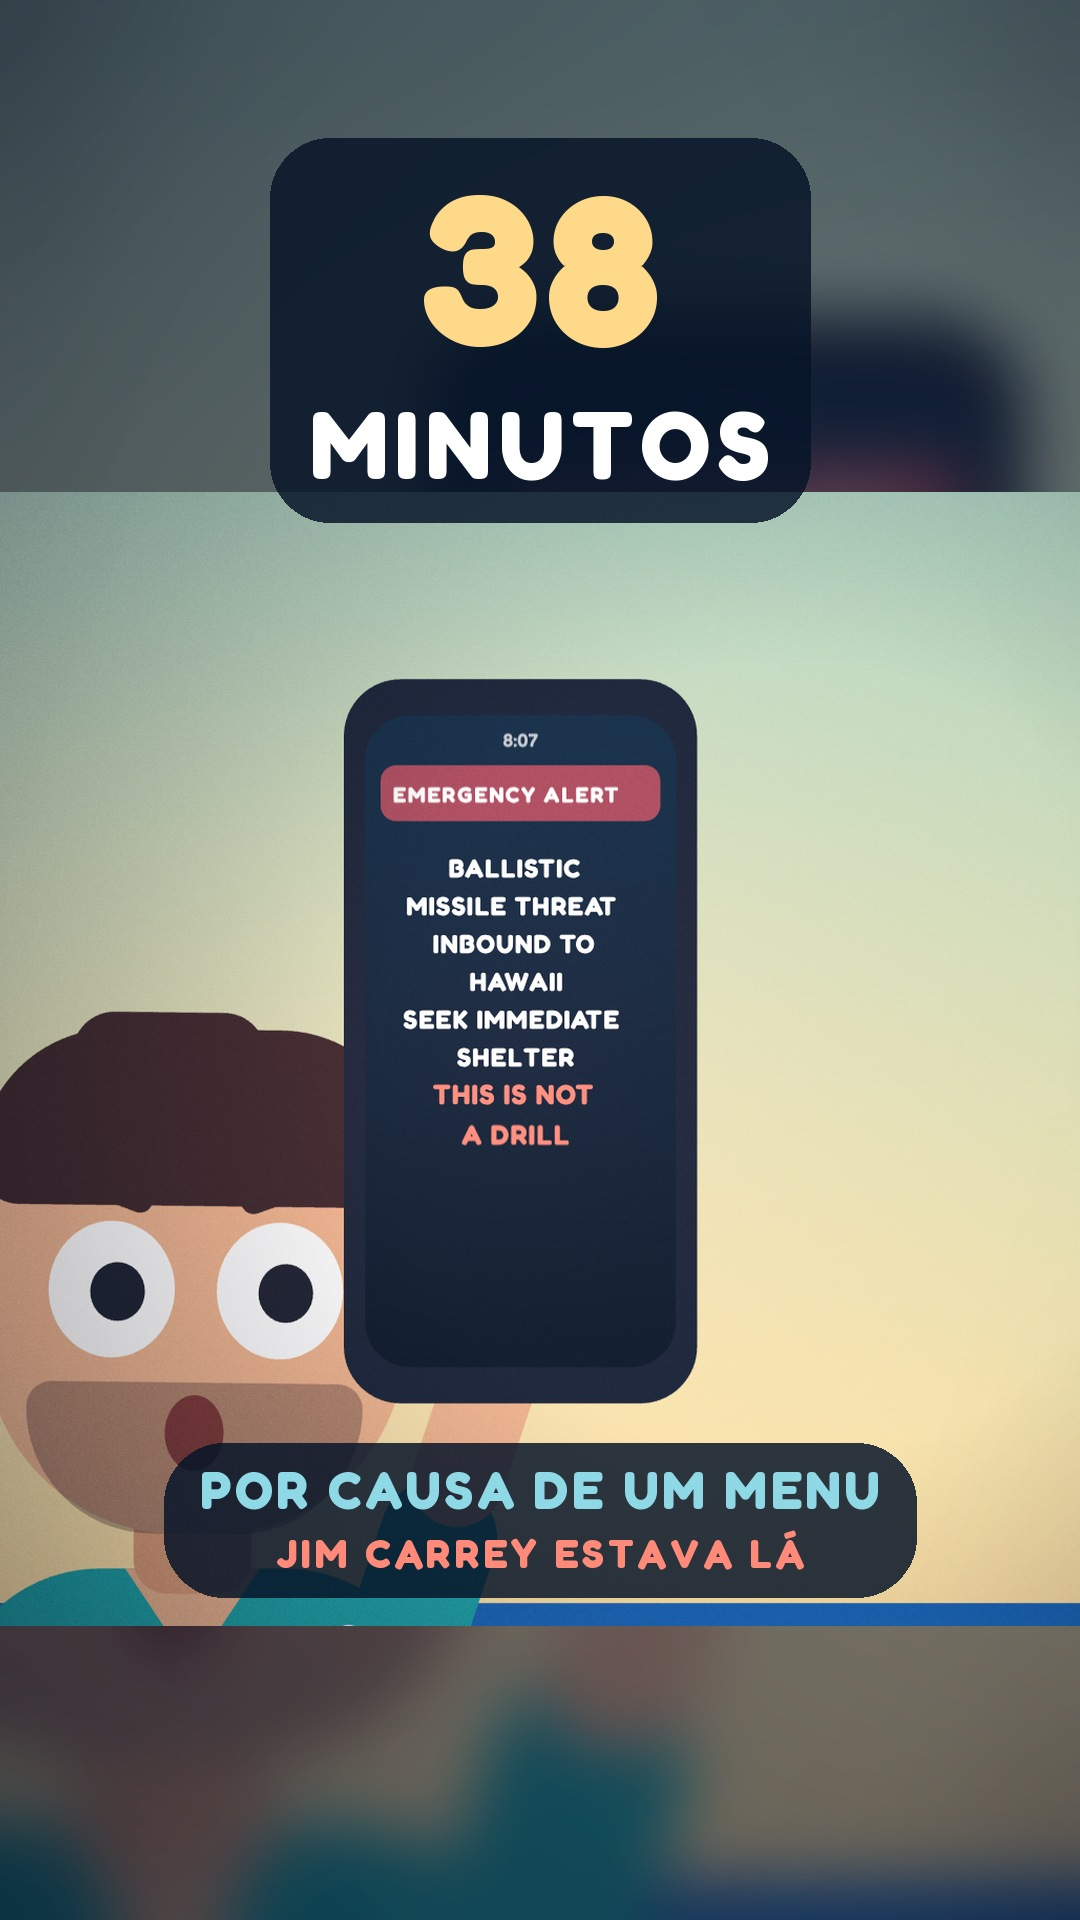
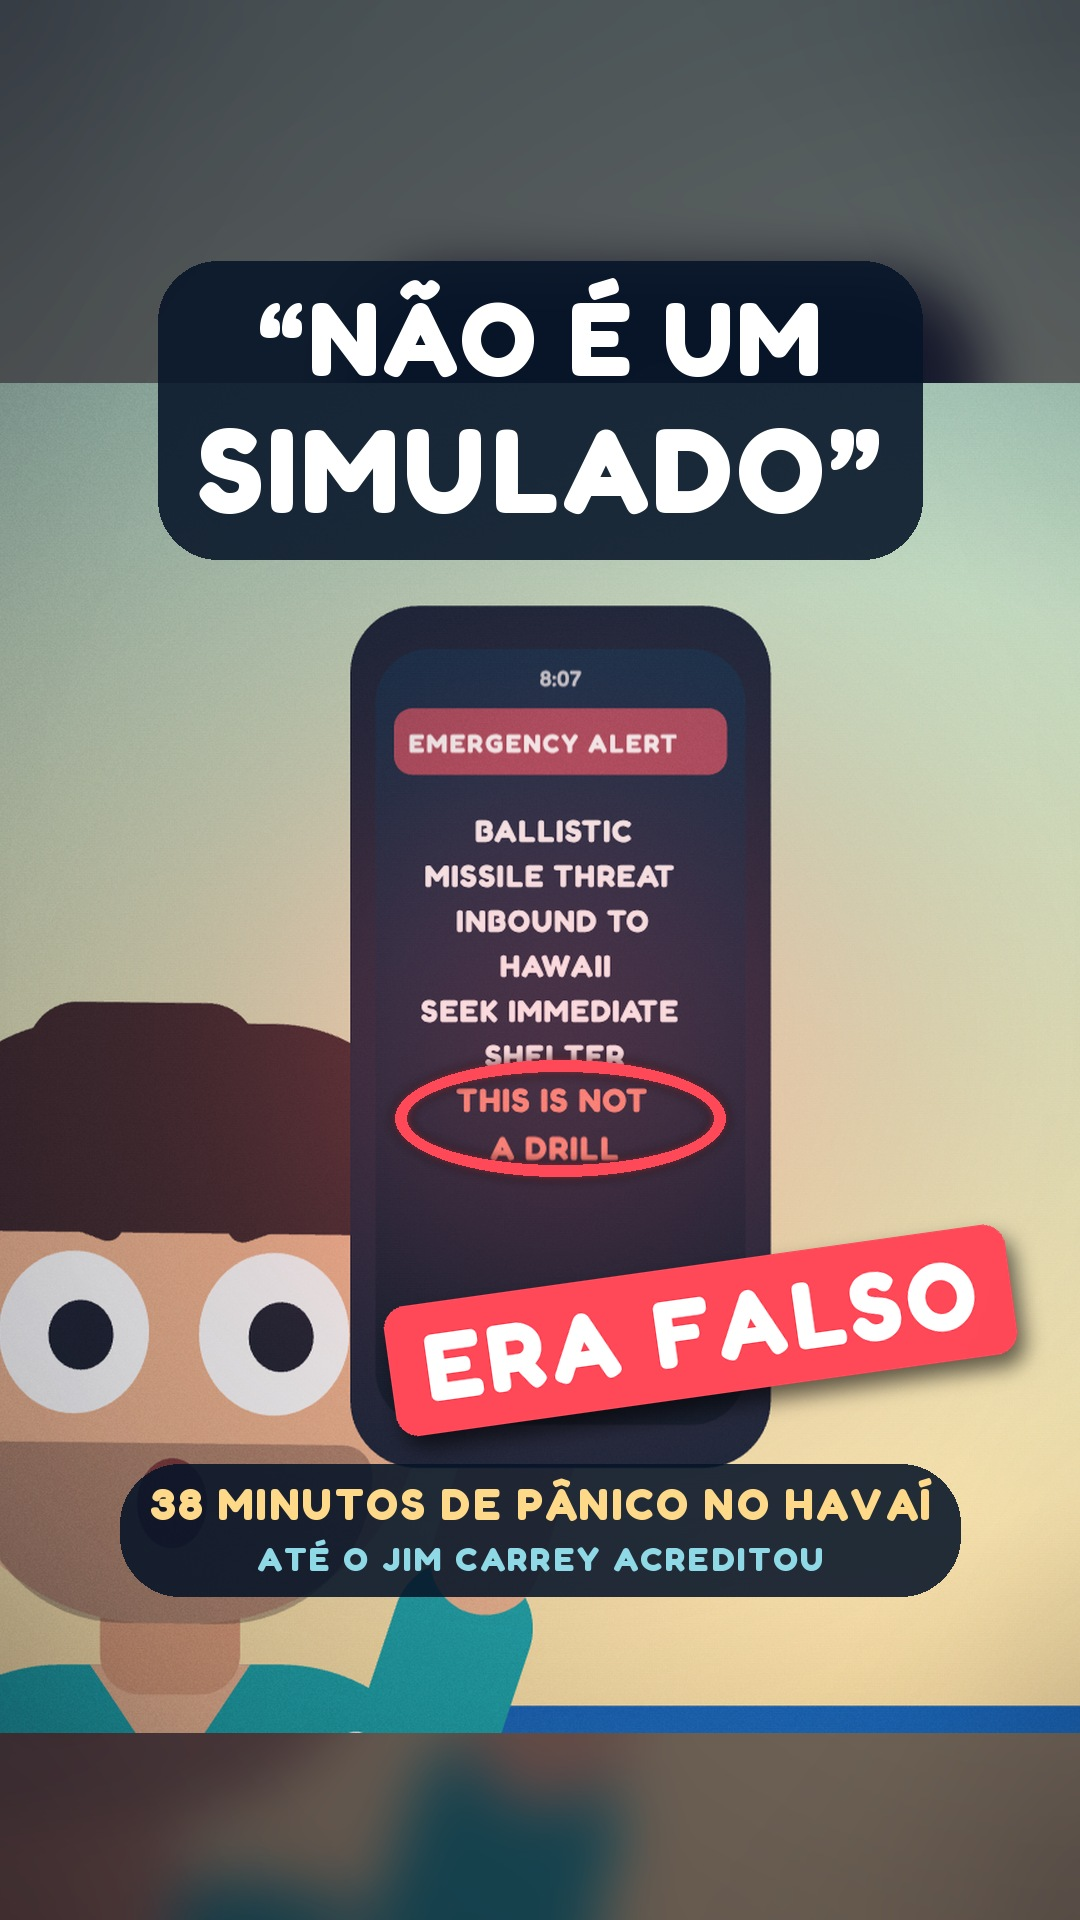
Thumbnails v2: hook structures (contradiction stamp, surprising fact + open question, one-line summary)
Claude-Session: https://claude.ai/code/session_01H3aMRQey6c6WogfkzFoRch

diff --git a/work/miniaturas/montar.py b/work/miniaturas/montar.py
@@ -34,48 +34,52 @@ def place(dst, src, scale, fx, fy, tx, ty):
     s = src.resize((int(src.width * scale), int(src.height * scale)), Image.LANCZOS)
     dst.alpha_composite(s.convert('RGBA'), (0, 0), (max(0, int(fx * scale - tx)), max(0, int(fy * scale - ty)))) if False else dst.paste(s, (int(tx - fx * scale), int(ty - fy * scale)))
 
-# ---------------- 38 MINUTOS (Havaí, Jim Carrey) ----------------
-fr = Image.open('quadros/havai_16.0.png').convert('RGBA')
-yt = Image.new('RGBA', (1920, 1080)); place(yt, fr, 1.12, 705, 525, 640, 560)
-# lado direito escurecido para o texto
-grad = Image.new('L', (1920, 1080)); gd = ImageDraw.Draw(grad)
-for x in range(1920): gd.line([(x, 0), (x, 1080)], fill=int(170 * max(0, min(1, (x - 900) / 500))))
-yt.paste(Image.new('RGBA', (1920, 1080), (8, 22, 44, 255)), (0, 0), grad)
-d = ImageDraw.Draw(yt)
-spaced(d, (1490, 420), '38', 330, GOLD, 6, 'm')
-spaced(d, (1490, 560), 'MINUTOS', 120, WHITE, 8, 'm')
-pill(yt, 1490, 690, [('POR CAUSA DE UM MENU', 54, TEAL, 5)], pad=34)
-pill(yt, 1490, 830, [('JIM CARREY ESTAVA LÁ', 44, CORAL, 5)], pad=28)
-vignette(yt, .5); yt.convert('RGB').resize((1280, 720), Image.LANCZOS).save('38_minutos_youtube.jpg', quality=93)
-# vertical
-bg = Image.new('RGBA', (1080, 1920)); place(bg, fr, 1.78, 600, 540, 540, 960); bg = bg.filter(ImageFilter.GaussianBlur(30))
-bg.alpha_composite(Image.new('RGBA', bg.size, (6, 16, 36, 140)))
-place(bg, fr, 1.05, 705, 560, 520, 1080)
-d = ImageDraw.Draw(bg)
-pill(bg, 540, 330, [('38', 210, GOLD, 6), ('MINUTOS', 96, WHITE, 8)], pad=40, alpha=215)
-pill(bg, 540, 1520, [('POR CAUSA DE UM MENU', 52, TEAL, 4), ('JIM CARREY ESTAVA LÁ', 40, CORAL, 4)], pad=36, alpha=215)
-vignette(bg, .45); bg.convert('RGB').save('38_minutos_capa_vertical.jpg', quality=93)
+def gerar_v1():
+    # ---------------- 38 MINUTOS (Havaí, Jim Carrey) ----------------
+    fr = Image.open('quadros/havai_16.0.png').convert('RGBA')
+    yt = Image.new('RGBA', (1920, 1080)); place(yt, fr, 1.12, 705, 525, 640, 560)
+    # lado direito escurecido para o texto
+    grad = Image.new('L', (1920, 1080)); gd = ImageDraw.Draw(grad)
+    for x in range(1920): gd.line([(x, 0), (x, 1080)], fill=int(170 * max(0, min(1, (x - 900) / 500))))
+    yt.paste(Image.new('RGBA', (1920, 1080), (8, 22, 44, 255)), (0, 0), grad)
+    d = ImageDraw.Draw(yt)
+    spaced(d, (1490, 420), '38', 330, GOLD, 6, 'm')
+    spaced(d, (1490, 560), 'MINUTOS', 120, WHITE, 8, 'm')
+    pill(yt, 1490, 690, [('POR CAUSA DE UM MENU', 54, TEAL, 5)], pad=34)
+    pill(yt, 1490, 830, [('JIM CARREY ESTAVA LÁ', 44, CORAL, 5)], pad=28)
+    vignette(yt, .5); yt.convert('RGB').resize((1280, 720), Image.LANCZOS).save('38_minutos_youtube.jpg', quality=93)
+    # vertical
+    bg = Image.new('RGBA', (1080, 1920)); place(bg, fr, 1.78, 600, 540, 540, 960); bg = bg.filter(ImageFilter.GaussianBlur(30))
+    bg.alpha_composite(Image.new('RGBA', bg.size, (6, 16, 36, 140)))
+    place(bg, fr, 1.05, 705, 560, 520, 1080)
+    d = ImageDraw.Draw(bg)
+    pill(bg, 540, 330, [('38', 210, GOLD, 6), ('MINUTOS', 96, WHITE, 8)], pad=40, alpha=215)
+    pill(bg, 540, 1520, [('POR CAUSA DE UM MENU', 52, TEAL, 4), ('JIM CARREY ESTAVA LÁ', 40, CORAL, 4)], pad=36, alpha=215)
+    vignette(bg, .45); bg.convert('RGB').save('38_minutos_capa_vertical.jpg', quality=93)
 
-# ---------------- SALVA OU CONDENA (abelhas-robôs) ----------------
-good = Image.open('quadros/abelhas_75.6.png').convert('RGBA'); evil = Image.open('quadros/abelhas_46.2.png').convert('RGBA')
-yt = Image.new('RGBA', (1920, 1080)); place(yt, good, 1.25, 960, 470, 480, 520)
-right = Image.new('RGBA', (1920, 1080)); place(right, evil, 1.55, 940, 520, 1440, 520)
-mask = Image.new('L', (1920, 1080)); md = ImageDraw.Draw(mask); md.polygon([(1060, 0), (1920, 0), (1920, 1080), (860, 1080)], fill=255)
-yt.paste(right, (0, 0), mask)
-glow = Image.new('RGBA', (1920, 1080), (0, 0, 0, 0)); gd = ImageDraw.Draw(glow); gd.line([(1060, 0), (860, 1080)], fill=(255, 217, 138, 255), width=16)
-yt.alpha_composite(glow.filter(ImageFilter.GaussianBlur(5)))
-pill(yt, 960, 930, [('SALVA OU CONDENA?', 124, WHITE, 8)], pad=42, alpha=215)
-pill(yt, 300, 110, [('ABELHAS-ROBÔS', 50, GOLD, 6)], pad=28, alpha=215)
-vignette(yt, .45); yt.convert('RGB').resize((1280, 720), Image.LANCZOS).save('salva_ou_condena_youtube.jpg', quality=93)
-# vertical: em cima a abelhinha (salva), embaixo o enxame (condena)
-v = Image.new('RGBA', (1080, 1920)); place(v, good, 1.45, 960, 470, 540, 470)
-low = Image.new('RGBA', (1080, 1920)); place(low, evil, 1.9, 940, 520, 540, 1400)
-mask = Image.new('L', (1080, 1920)); md = ImageDraw.Draw(mask); md.polygon([(0, 1000), (1080, 880), (1080, 1920), (0, 1920)], fill=255)
-v.paste(low, (0, 0), mask)
-glow = Image.new('RGBA', (1080, 1920), (0, 0, 0, 0)); gd = ImageDraw.Draw(glow); gd.line([(0, 1000), (1080, 880)], fill=(255, 217, 138, 255), width=14)
-v.alpha_composite(glow.filter(ImageFilter.GaussianBlur(5)))
-pill(v, 540, 200, [('ABELHAS-ROBÔS', 52, GOLD, 6)], pad=28, alpha=215)
-pill(v, 540, 850, [('SALVA', 140, TEAL, 8)], pad=30, alpha=215)
-pill(v, 540, 1110, [('OU CONDENA?', 104, CORAL, 7)], pad=30, alpha=215)
-vignette(v, .45); v.convert('RGB').save('salva_ou_condena_capa_vertical.jpg', quality=93)
-print('ok')
+    # ---------------- SALVA OU CONDENA (abelhas-robôs) ----------------
+    good = Image.open('quadros/abelhas_75.6.png').convert('RGBA'); evil = Image.open('quadros/abelhas_46.2.png').convert('RGBA')
+    yt = Image.new('RGBA', (1920, 1080)); place(yt, good, 1.25, 960, 470, 480, 520)
+    right = Image.new('RGBA', (1920, 1080)); place(right, evil, 1.55, 940, 520, 1440, 520)
+    mask = Image.new('L', (1920, 1080)); md = ImageDraw.Draw(mask); md.polygon([(1060, 0), (1920, 0), (1920, 1080), (860, 1080)], fill=255)
+    yt.paste(right, (0, 0), mask)
+    glow = Image.new('RGBA', (1920, 1080), (0, 0, 0, 0)); gd = ImageDraw.Draw(glow); gd.line([(1060, 0), (860, 1080)], fill=(255, 217, 138, 255), width=16)
+    yt.alpha_composite(glow.filter(ImageFilter.GaussianBlur(5)))
+    pill(yt, 960, 930, [('SALVA OU CONDENA?', 124, WHITE, 8)], pad=42, alpha=215)
+    pill(yt, 300, 110, [('ABELHAS-ROBÔS', 50, GOLD, 6)], pad=28, alpha=215)
+    vignette(yt, .45); yt.convert('RGB').resize((1280, 720), Image.LANCZOS).save('salva_ou_condena_youtube.jpg', quality=93)
+    # vertical: em cima a abelhinha (salva), embaixo o enxame (condena)
+    v = Image.new('RGBA', (1080, 1920)); place(v, good, 1.45, 960, 470, 540, 470)
+    low = Image.new('RGBA', (1080, 1920)); place(low, evil, 1.9, 940, 520, 540, 1400)
+    mask = Image.new('L', (1080, 1920)); md = ImageDraw.Draw(mask); md.polygon([(0, 1000), (1080, 880), (1080, 1920), (0, 1920)], fill=255)
+    v.paste(low, (0, 0), mask)
+    glow = Image.new('RGBA', (1080, 1920), (0, 0, 0, 0)); gd = ImageDraw.Draw(glow); gd.line([(0, 1000), (1080, 880)], fill=(255, 217, 138, 255), width=14)
+    v.alpha_composite(glow.filter(ImageFilter.GaussianBlur(5)))
+    pill(v, 540, 200, [('ABELHAS-ROBÔS', 52, GOLD, 6)], pad=28, alpha=215)
+    pill(v, 540, 850, [('SALVA', 140, TEAL, 8)], pad=30, alpha=215)
+    pill(v, 540, 1110, [('OU CONDENA?', 104, CORAL, 7)], pad=30, alpha=215)
+    vignette(v, .45); v.convert('RGB').save('salva_ou_condena_capa_vertical.jpg', quality=93)
+    print('ok')
+
+if __name__ == "__main__":
+    gerar_v1()

diff --git a/work/miniaturas/montar_v2.py b/work/miniaturas/montar_v2.py
@@ -1,0 +1,92 @@
+# Miniaturas v2 com estrutura de gancho: contradição / fato surpreendente + pergunta aberta + resumo em 1 linha
+import math
+from PIL import Image, ImageDraw, ImageFilter
+from montar import font, text_w, spaced, pill, vignette, place, TEAL, GOLD, CORAL, WHITE
+RED = (255, 72, 88)
+def headline(img, x, y, lines, anchor='l', shadow=True):
+    # texto grande sem caixa, com sombra suave para leitura em tamanho pequeno
+    d = ImageDraw.Draw(img)
+    for s, px, col, ls in lines:
+        if shadow:
+            sh = Image.new('RGBA', img.size, (0, 0, 0, 0)); sd = ImageDraw.Draw(sh)
+            spaced(sd, (x + 6, y + 8), s, px, (0, 0, 0, 190), ls, anchor if anchor == 'm' else 'l')
+            img.alpha_composite(sh.filter(ImageFilter.GaussianBlur(10)))
+        spaced(d, (x, y), s, px, col, ls, anchor if anchor == 'm' else 'l')
+        y += px * 1.02
+def stamp(img, cx, cy, s, px, col, ang, pad=34):
+    w = text_w(s, px, 6) + pad * 2; h = px * 1.35
+    layer = Image.new('RGBA', (int(w) + 40, int(h) + 40), (0, 0, 0, 0)); d = ImageDraw.Draw(layer)
+    d.rounded_rectangle([20, 20, 20 + w, 20 + h], radius=22, fill=col + (255,))
+    spaced(d, (20 + w / 2, 20 + h / 2 + px * .36), s, px, WHITE, 6, 'm')
+    layer = layer.rotate(ang, expand=True, resample=Image.BICUBIC)
+    sh = Image.new('RGBA', img.size, (0, 0, 0, 0)); sh.paste((0, 0, 0, 150), (int(cx - layer.width / 2 + 8), int(cy - layer.height / 2 + 12)), layer)
+    img.alpha_composite(sh.filter(ImageFilter.GaussianBlur(10)))
+    img.alpha_composite(layer, (int(cx - layer.width / 2), int(cy - layer.height / 2)))
+def ring(img, cx, cy, rx, ry, col, wdt=12):
+    # destaque circular (anel preenchido com brilho), aponta o detalhe que importa
+    g = Image.new('RGBA', img.size, (0, 0, 0, 0)); d = ImageDraw.Draw(g)
+    d.ellipse([cx - rx, cy - ry, cx + rx, cy + ry], outline=col + (255,), width=wdt)
+    img.alpha_composite(g.filter(ImageFilter.GaussianBlur(6))); img.alpha_composite(g)
+def glow(img, cx, cy, r, col, a):
+    g = Image.new('RGBA', img.size, (0, 0, 0, 0)); d = ImageDraw.Draw(g)
+    d.ellipse([cx - r, cy - r, cx + r, cy + r], fill=col + (a,))
+    img.alpha_composite(g.filter(ImageFilter.GaussianBlur(r * .45)))
+
+# ========================= 38 MINUTOS =========================
+fr = Image.open('quadros/havai_16.0.png').convert('RGBA')
+FX, FY = 705, 525          # centro do celular no quadro
+LINE = (705, 588)          # "THIS IS NOT A DRILL" na tela
+# YouTube
+yt = Image.new('RGBA', (1920, 1080)); S = 1.18; TX, TY = 600, 500
+place(yt, fr, S, FX, FY, TX, TY)
+grad = Image.new('L', (1920, 1080)); gd = ImageDraw.Draw(grad)
+for x in range(1920): gd.line([(x, 0), (x, 1080)], fill=int(235 * max(0, min(1, (x - 820) / 420))))
+yt.paste(Image.new('RGBA', (1920, 1080), (14, 10, 26, 255)), (0, 0), grad)
+glow(yt, 1420, 520, 420, RED, 70)
+lx, ly = TX + (LINE[0] - FX) * S, TY + (LINE[1] - FY) * S
+ring(yt, lx, ly, 175, 62, RED)
+headline(yt, 1000, 330, [('“NÃO É UM', 128, WHITE, 4), ('SIMULADO”', 150, WHITE, 5)])
+stamp(yt, 1480, 640, 'ERA FALSO', 104, RED, 8)
+pill(yt, 1370, 860, [('38 MINUTOS DE PÂNICO NO HAVAÍ', 46, GOLD, 4)], pad=30, alpha=225)
+pill(yt, 1370, 965, [('ATÉ O JIM CARREY ACREDITOU', 36, TEAL, 4)], pad=22, alpha=225)
+vignette(yt, .5); yt.convert('RGB').resize((1280, 720), Image.LANCZOS).save('38_minutos_youtube.jpg', quality=93)
+# Vertical (texto-chave dentro do recorte 4:5, y 285-1635)
+v = Image.new('RGBA', (1080, 1920)); place(v, fr, 1.9, 640, 540, 540, 960); v = v.filter(ImageFilter.GaussianBlur(28))
+v.alpha_composite(Image.new('RGBA', v.size, (14, 10, 26, 150)))
+S2 = 1.25; TX2, TY2 = 560, 1040
+place(v, fr, S2, FX, FY, TX2, TY2)
+glow(v, 560, 1040, 380, RED, 55)
+ring(v, TX2 + (LINE[0] - FX) * S2, TY2 + (LINE[1] - FY) * S2, 165, 58, RED)
+pill(v, 540, 410, [('“NÃO É UM', 104, WHITE, 4), ('SIMULADO”', 120, WHITE, 5)], pad=40, alpha=225)
+stamp(v, 700, 1330, 'ERA FALSO', 96, RED, 8)
+pill(v, 540, 1530, [('38 MINUTOS DE PÂNICO NO HAVAÍ', 44, GOLD, 3), ('ATÉ O JIM CARREY ACREDITOU', 34, TEAL, 3)], pad=30, alpha=225)
+vignette(v, .45); v.convert('RGB').save('38_minutos_capa_vertical.jpg', quality=93)
+
+# ========================= SALVA OU CONDENA =========================
+good = Image.open('quadros/abelhas_75.6.png').convert('RGBA'); evil = Image.open('quadros/abelhas_46.2.png').convert('RGBA')
+yt = Image.new('RGBA', (1920, 1080)); place(yt, good, 1.3, 960, 470, 470, 600)
+right = Image.new('RGBA', (1920, 1080)); place(right, evil, 1.6, 940, 520, 1450, 620)
+mask = Image.new('L', (1920, 1080)); md = ImageDraw.Draw(mask); md.polygon([(1080, 0), (1920, 0), (1920, 1080), (880, 1080)], fill=255)
+yt.paste(right, (0, 0), mask)
+gl = Image.new('RGBA', (1920, 1080), (0, 0, 0, 0)); gd = ImageDraw.Draw(gl); gd.line([(1080, 0), (880, 1080)], fill=GOLD + (255,), width=16)
+yt.alpha_composite(gl.filter(ImageFilter.GaussianBlur(5)))
+top = Image.new('RGBA', (1920, 1080), (0, 0, 0, 0)); td = ImageDraw.Draw(top)
+for y in range(330): td.line([(0, y), (1920, y)], fill=(6, 14, 30, int(210 * (1 - y / 330))))
+yt.alpha_composite(top)
+headline(yt, 960, 175, [('ABELHAS-ROBÔS JÁ EXISTEM', 116, WHITE, 5)], anchor='m')
+pill(yt, 330, 300, [('PROTÓTIPO DO MIT', 40, TEAL, 5)], pad=24, alpha=225)
+stamp(yt, 1360, 925, 'E SE FOREM HACKEADAS?', 60, RED, 4)
+vignette(yt, .45); yt.convert('RGB').resize((1280, 720), Image.LANCZOS).save('salva_ou_condena_youtube.jpg', quality=93)
+# Vertical
+v = Image.new('RGBA', (1080, 1920)); place(v, good, 1.45, 960, 470, 540, 640)
+low = Image.new('RGBA', (1080, 1920)); place(low, evil, 1.9, 940, 520, 540, 1430)
+mask = Image.new('L', (1080, 1920)); md = ImageDraw.Draw(mask); md.polygon([(0, 1060), (1080, 940), (1080, 1920), (0, 1920)], fill=255)
+v.paste(low, (0, 0), mask)
+gl = Image.new('RGBA', (1080, 1920), (0, 0, 0, 0)); gd = ImageDraw.Draw(gl); gd.line([(0, 1060), (1080, 940)], fill=GOLD + (255,), width=14)
+v.alpha_composite(gl.filter(ImageFilter.GaussianBlur(5)))
+pill(v, 540, 340, [('ABELHAS-ROBÔS', 92, WHITE, 5), ('JÁ EXISTEM', 92, GOLD, 5)], pad=36, alpha=225)
+pill(v, 540, 950, [('PROTÓTIPO DO MIT', 38, TEAL, 5)], pad=22, alpha=225)
+stamp(v, 540, 1440, 'E SE FOREM', 84, RED, 5)
+stamp(v, 560, 1570, 'HACKEADAS?', 92, RED, 5)
+vignette(v, .45); v.convert('RGB').save('salva_ou_condena_capa_vertical.jpg', quality=93)
+print('ok')
